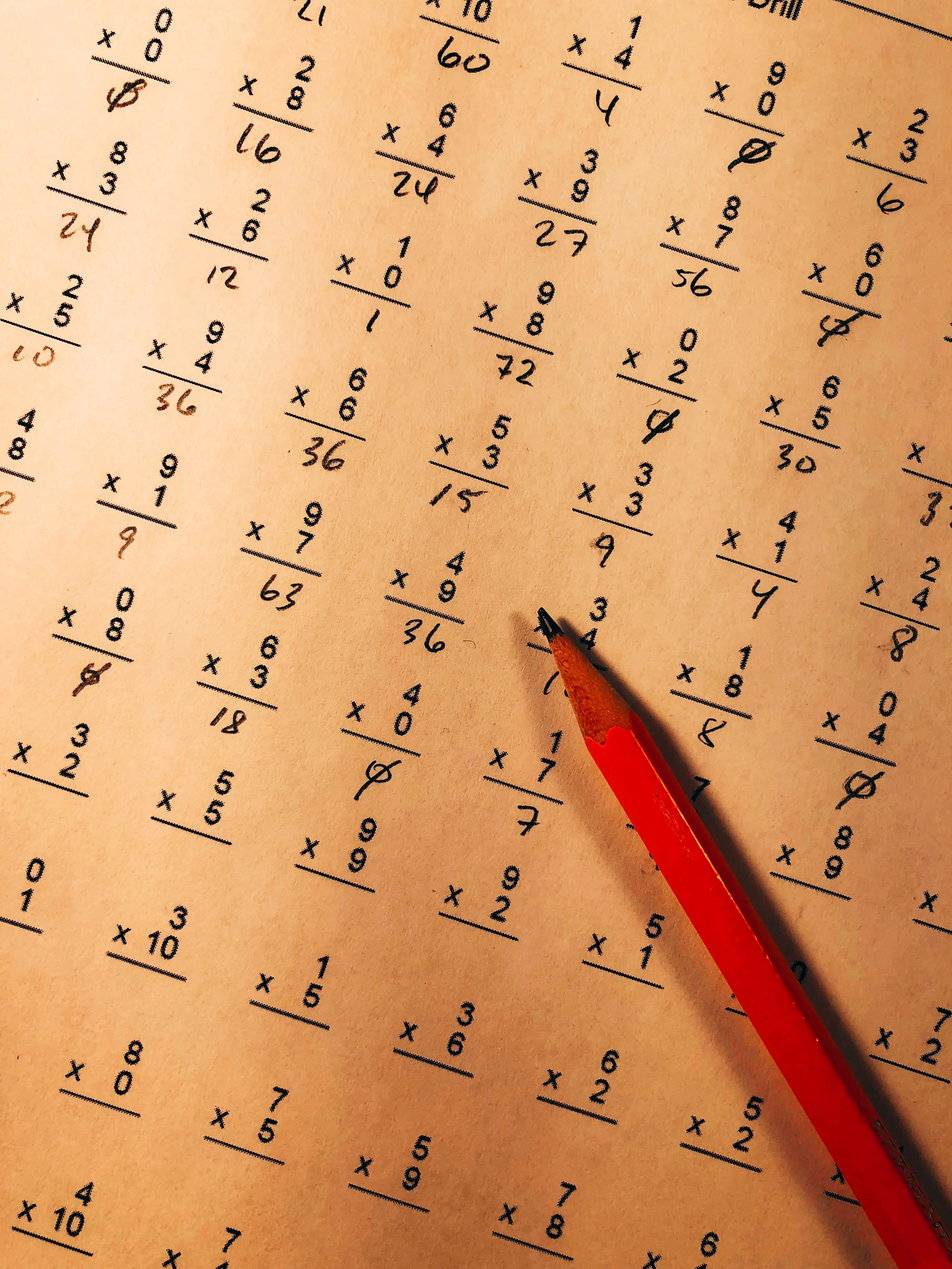
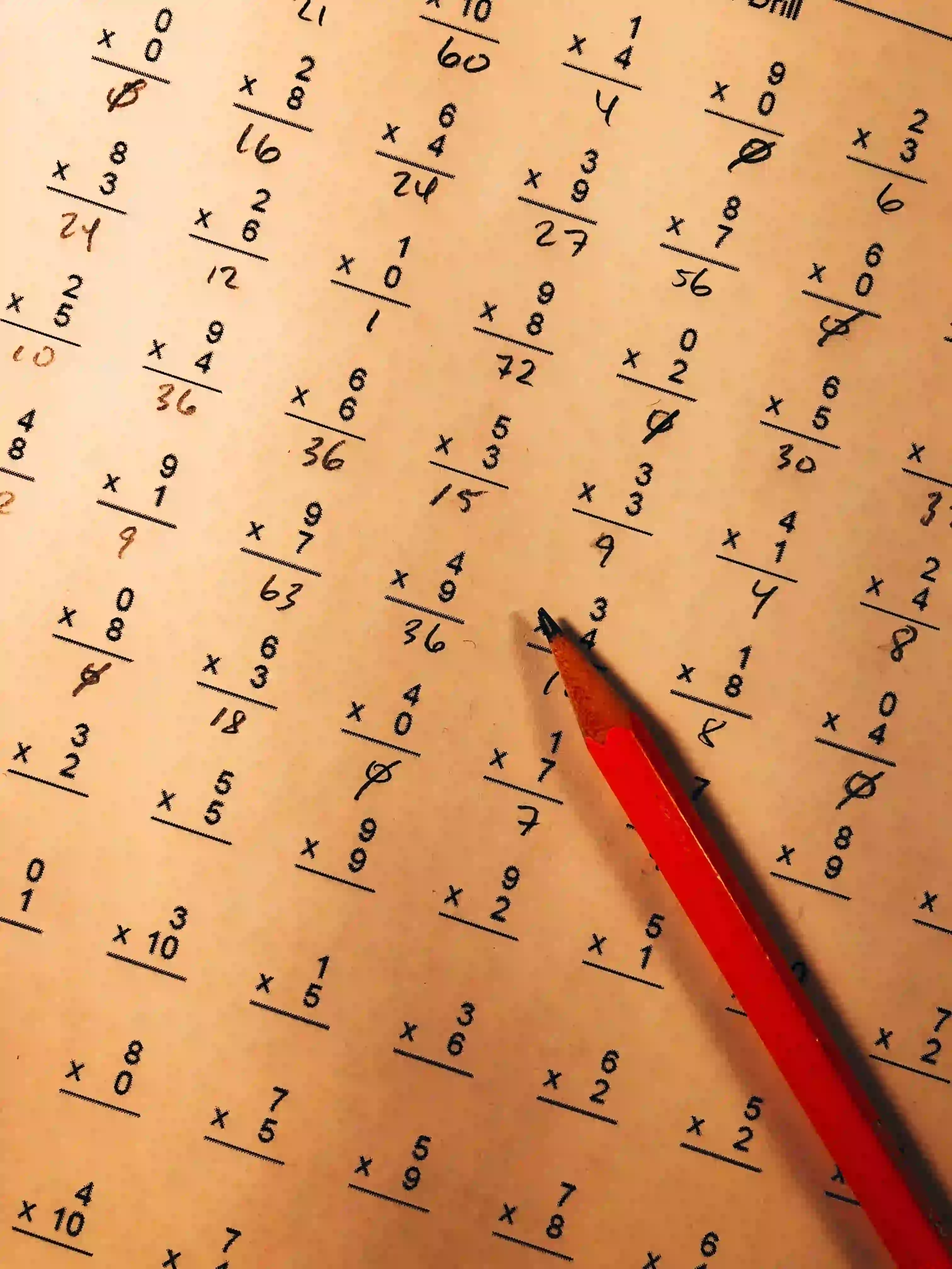
changed Navition and Footer styles and optimised images

diff --git a/client/src/Components/Footer.tsx b/client/src/Components/Footer.tsx
@@ -2,6 +2,7 @@ import GithubIcon from "../assets/github-brands.svg";
 import LinkedinIcon from "../assets/linkedin-brands.svg";
 import TwitterIcon from "../assets/twitter-brands.svg";
 import Style from "./Styles/Footer.module.css";
+import Wave from "react-wavify";
 
 const links = {
   linkedin: "https://www.linkedin.com/in/priyang-patel-948685176",
@@ -9,13 +10,50 @@ const links = {
   twitter: "https://twitter.com/Priyang_Bawa",
 };
 
+function Waves({}) {
+  return (
+    <>
+      <Wave
+        style={{
+          zIndex: "-1",
+          position: "absolute",
+          bottom: "-10px",
+          left: 0,
+        }}
+        fill="#e6c290"
+        paused={false}
+        options={{
+          height: 10,
+          amplitude: 40,
+          speed: 0.5,
+          points: 2,
+        }}
+      />
+      <Wave
+        style={{
+          zIndex: "-1",
+          position: "absolute",
+          bottom: "-10px",
+          left: 0,
+        }}
+        fill="#cf8824"
+        paused={false}
+        options={{
+          height: 30,
+          amplitude: 60,
+          speed: 0.5,
+          points: 3,
+        }}
+      />
+    </>
+  );
+}
+
 const Footer = () => {
   return (
     <footer>
       <div className={Style.footerContainer}>
-        <p className={Style.copyright}>
-          © Copyright 2021 Made by Priyang Patel With love ❤ for Math.
-        </p>
+        <Waves />
         <ul className={Style.List}>
           <li className={Style.ListItem}>
             <a href={links.github}>
@@ -33,6 +71,9 @@ const Footer = () => {
             </a>
           </li>
         </ul>
+        <p className={Style.copyright}>
+          © Copyright 2021 Made by Priyang Patel With love ❤ for Math.
+        </p>
       </div>
     </footer>
   );

diff --git a/client/src/Components/Navigator.tsx b/client/src/Components/Navigator.tsx
@@ -9,36 +9,36 @@ const Links = () => {
       <ul className={Style.list}>
         {Path !== "/" && (
           <div className={Style.Board}>
-            <Board type='primary'>
+            <Board type={Path === "/Random" ? "secondary" : "primary"}>
               <li className={Style.item}>
-                <Link to='/'>Single Numbers</Link>
+                <Link to="/">Single Numbers</Link>
               </li>
             </Board>
           </div>
         )}
         {Path !== "/Random" && (
           <div className={Style.Board}>
-            <Board type='secondary'>
+            <Board type="secondary">
               <li className={Style.item}>
-                <Link to='Random'>Random Numnbers</Link>
+                <Link to="Random">Random Numnbers</Link>
               </li>
             </Board>
           </div>
         )}
         {Path !== "/Multiple" && (
           <div className={Style.Board}>
-            <Board type='primary'>
+            <Board type="primary">
               <li className={Style.item}>
-                <Link to='Multiple'>Multiple Numbers</Link>
+                <Link to="Multiple">Multiple Numbers</Link>
               </li>
             </Board>
           </div>
         )}
         {Path !== "/Math" && (
           <div className={Style.Board}>
-            <Board type='secondary'>
+            <Board type={Path === "/Multiple" ? "primary" : "secondary"}>
               <li className={Style.item}>
-                <Link to='Math'>Mathematicians Tale</Link>
+                <Link to="Math">Mathematicians Tale</Link>
               </li>
             </Board>
           </div>

diff --git a/client/src/Components/Styles/Footer.module.css b/client/src/Components/Styles/Footer.module.css
@@ -1,9 +1,7 @@
 .footerContainer {
+  position: relative;
   margin-top: 2em;
-  background-color: rgba(51, 51, 51, 0.788);
-  padding: 8em;
   padding-bottom: 2em;
-  clip-path: polygon(50% 20%, 100% 0, 100% 100%, 0 100%, 0 0);
 }
 .copyright {
   color: #fff;
@@ -29,15 +27,11 @@
   background-color: #e6d821;
 }
 .ListItem img {
-  width: 100px;
-  height: 100px;
+  width: 50px;
+  height: 50px;
 }
-@media screen and (max-width: 500px) {
+@media screen and (max-width: 800px) {
   .footerContainer {
     padding: 2em;
-  }
-  .ListItem img {
-    width: 50px;
-    height: 50px;
   }
 }

diff --git a/client/src/Styles/Global.css b/client/src/Styles/Global.css
@@ -10,6 +10,7 @@ body {
   font-family: pastelRegular, Arial, Helvetica, sans-serif;
   background-color: #e6c290;
   background: url("../assets/horixonalpencil.webp") no-repeat center/cover;
+  min-height: 100vh;
 }
 
 code {
